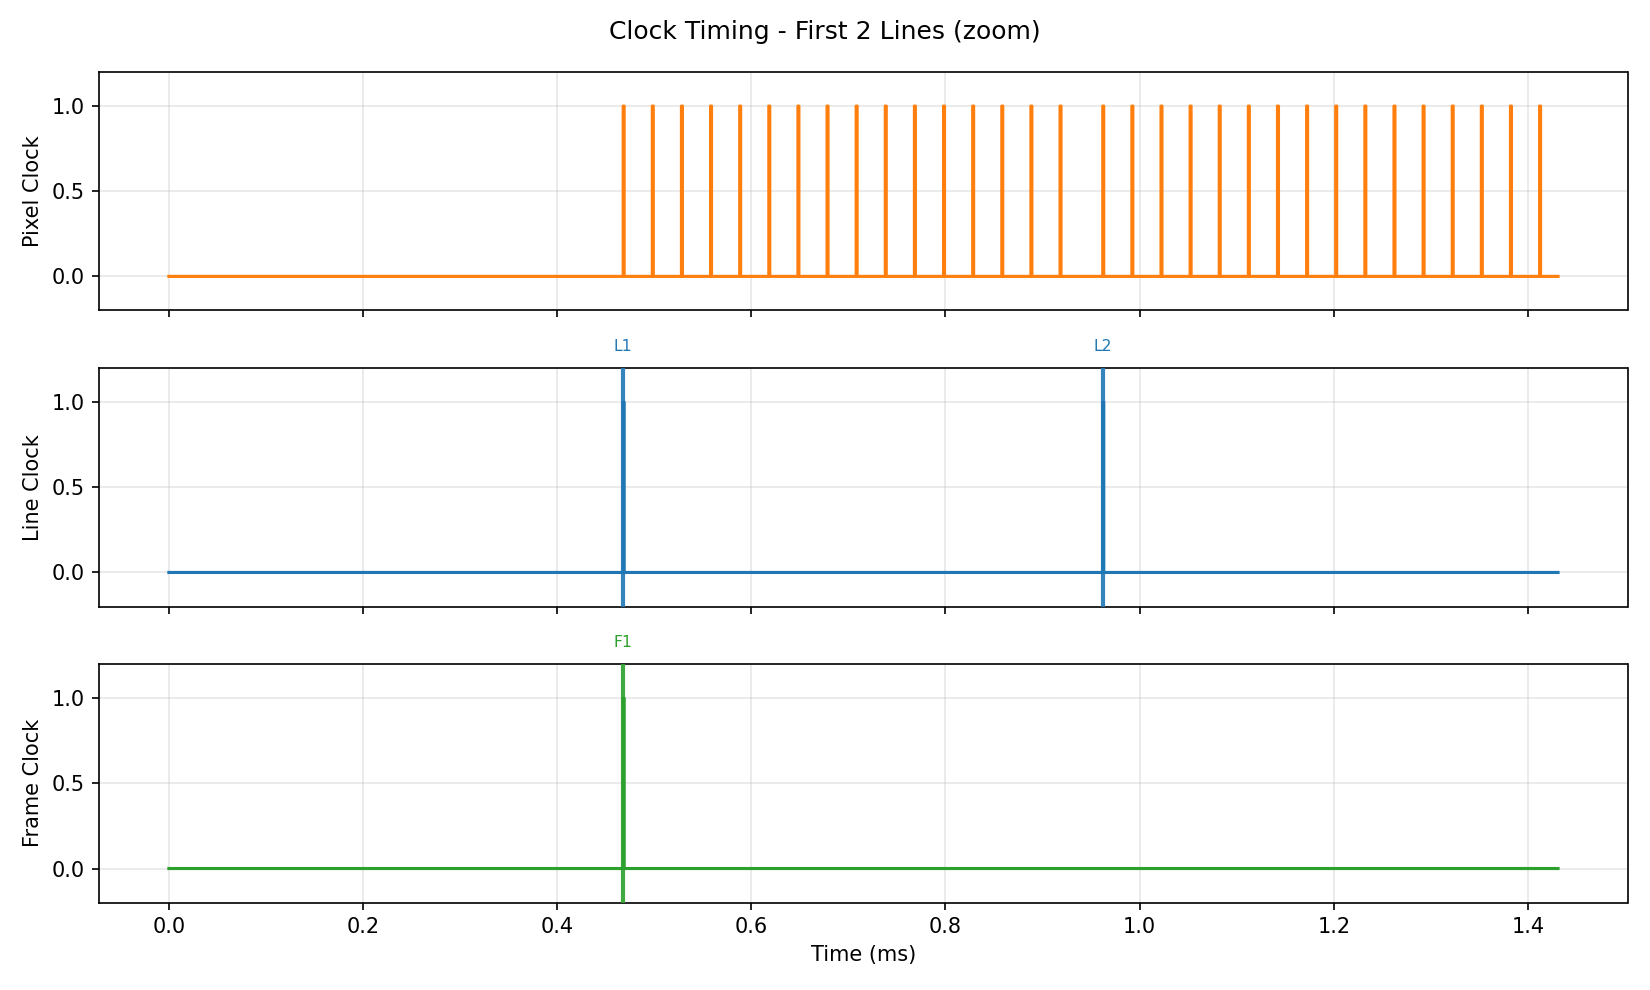
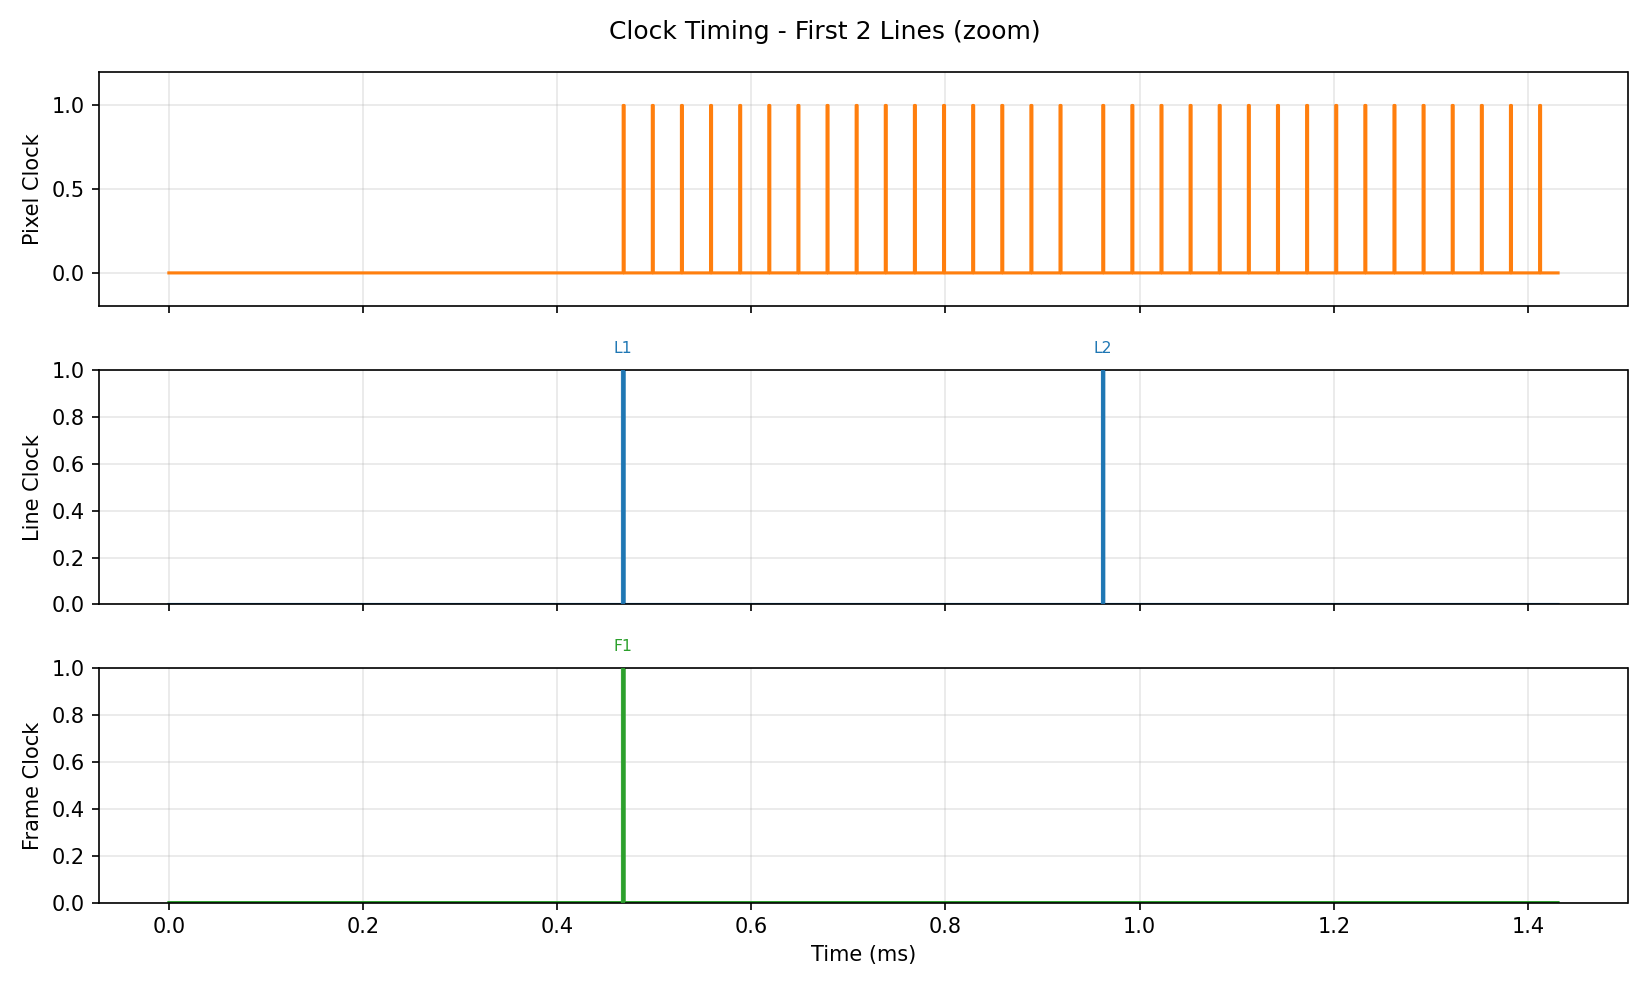
Clamp Line/Frame Clock plots to a strict 0-1 y-axis range
generate_clocks.py's and visualize_clocks.py's plot_timing() both used
ax.set_ylim(-0.2, 1.2) for all three lanes. Per request, Line Clock and
Frame Clock now use exactly (0, 1) instead -- Pixel Clock is left with
its existing headroom since it has no marker text floating above it.
Marker label y-position (L1/L2/.../END/F1) adjusted from a hardcoded
1.28 to 1.06 so labels still sit just above the tighter 0-1 lanes
without clipping (clip_on=False keeps them visible regardless).

Verified: viz_timing_full.png / viz_timing_zoom.png (generate_clocks.py)
and their visualize_clocks.py-plotted equivalents now show Line/Frame
Clock traces confined to 0-1 with all markers still legible.

diff --git a/visualize_clocks.py b/visualize_clocks.py
@@ -108,18 +108,19 @@ def _annotate_triggers(ax, starts, ends, dt_ms, s0, s1, prefix, color, end_label
     is given, each 'end' marker also gets that text label (used for Line
     Clock's single "line clock end" pulse)."""
     t_lo, t_hi = s0 * dt_ms, s1 * dt_ms
+    label_y = 1.06  # just above the 0-1 axis range used for Line/Frame Clock lanes
     for k, s in enumerate(starts):
         t = s * dt_ms
         if t_lo <= t <= t_hi:
             ax.axvline(t, color=color, linewidth=2.0, linestyle="-", alpha=0.9, zorder=4)
-            ax.text(t, 1.28, f"{prefix}{k+1}", ha="center", va="bottom",
+            ax.text(t, label_y, f"{prefix}{k+1}", ha="center", va="bottom",
                     fontsize=7.5, color=color, clip_on=False)
     for e in ends:
         t = e * dt_ms
         if t_lo <= t <= t_hi:
             ax.axvline(t, color=color, linewidth=1.3, linestyle=(0, (2, 2)), alpha=0.8, zorder=4)
             if end_label:
-                ax.text(t, 1.28, end_label, ha="center", va="bottom",
+                ax.text(t, label_y, end_label, ha="center", va="bottom",
                         fontsize=7.5, color=color, clip_on=False)
 
 
@@ -142,7 +143,10 @@ def plot_timing(df, out_path, sample_range=None, title_suffix=""):
     for ax, (label, sig, color) in zip(axes, signals):
         ax.set_facecolor(COLOR_BG)
         ax.step(t_ms, sig, where="post", color=color, linewidth=1.8)
-        ax.set_ylim(-0.2, 1.2)
+        # Line/Frame Clock lanes stay strictly within the 0-1 digital range;
+        # Pixel Clock keeps a little headroom since it has no marker text
+        # floating above it that needs the extra room.
+        ax.set_ylim(0, 1) if label in ("Line Clock", "Frame Clock") else ax.set_ylim(-0.2, 1.2)
         ax.set_ylabel(label, color=COLOR_INK_DIM)
         ax.tick_params(colors=COLOR_INK_DIM)
         ax.grid(color=COLOR_GRID, linewidth=0.7, alpha=0.8)

diff --git a/generate_clocks.py b/generate_clocks.py
@@ -428,18 +428,19 @@ def _annotate_triggers(ax, starts, ends, dt, s0, s1, prefix, color, end_label=No
     (used for Line Clock's single "line clock end" pulse); left None, ends
     are drawn as a plain unlabeled dotted line (Frame Clock's behavior)."""
     t_lo, t_hi = s0 * dt * 1e3, s1 * dt * 1e3
+    label_y = 1.06  # just above the 0-1 axis range used for Line/Frame Clock lanes
     for k, s in enumerate(starts):
         t = s * dt * 1e3
         if t_lo <= t <= t_hi:
             ax.axvline(t, color=color, linewidth=2.0, linestyle="-", alpha=0.9, zorder=4)
-            ax.text(t, 1.28, f"{prefix}{k+1}", ha="center", va="bottom",
+            ax.text(t, label_y, f"{prefix}{k+1}", ha="center", va="bottom",
                     fontsize=7.5, color=color, clip_on=False)
     for e in ends:
         t = e * dt * 1e3
         if t_lo <= t <= t_hi:
             ax.axvline(t, color=color, linewidth=1.3, linestyle=(0, (2, 2)), alpha=0.8, zorder=4)
             if end_label:
-                ax.text(t, 1.28, end_label, ha="center", va="bottom",
+                ax.text(t, label_y, end_label, ha="center", va="bottom",
                         fontsize=7.5, color=color, clip_on=False)
 
 
@@ -459,7 +460,10 @@ def plot_timing(built, sample_rate_hz, out_path, sample_range=None, title_suffix
     ]
     for ax, (label, sig, color) in zip(axes, signals):
         ax.step(t, sig, where="post", color=color, linewidth=1.5)
-        ax.set_ylim(-0.2, 1.2)
+        # Line/Frame Clock lanes stay strictly within the 0-1 digital range;
+        # Pixel Clock keeps a little headroom since it has no marker text
+        # floating above it that needs the extra room.
+        ax.set_ylim(0, 1) if label in ("Line Clock", "Frame Clock") else ax.set_ylim(-0.2, 1.2)
         ax.set_ylabel(label)
         ax.grid(alpha=0.3)
 
